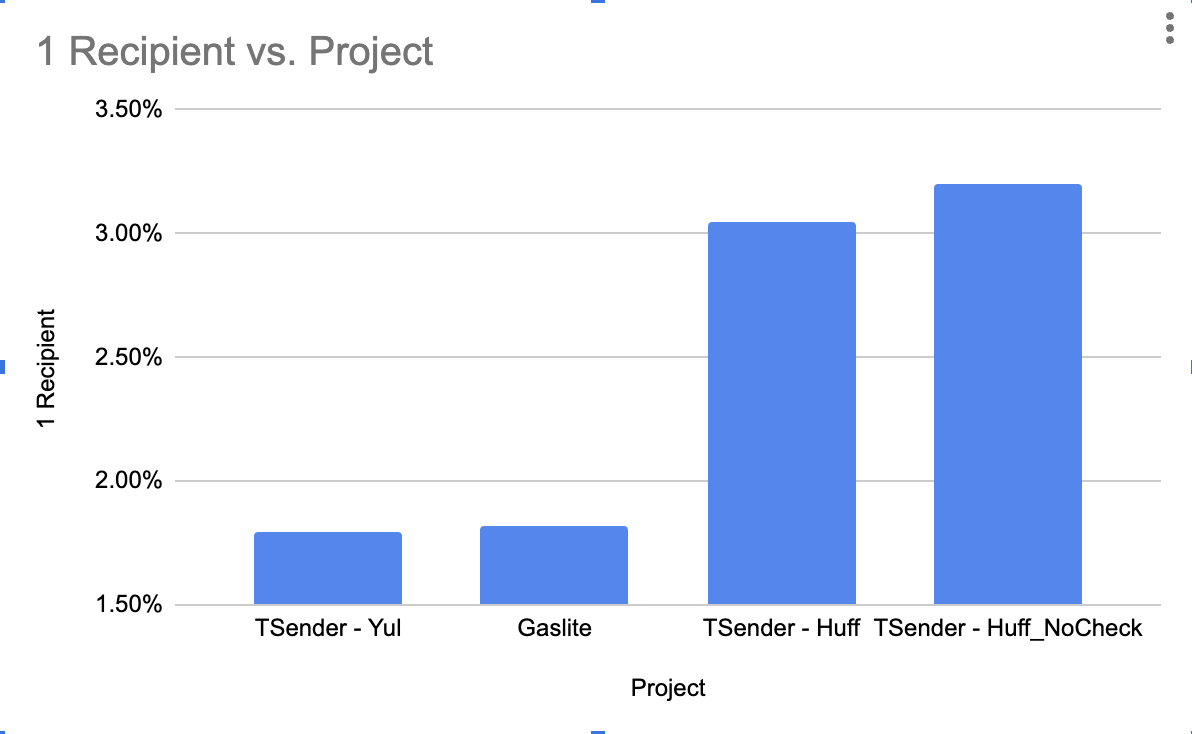
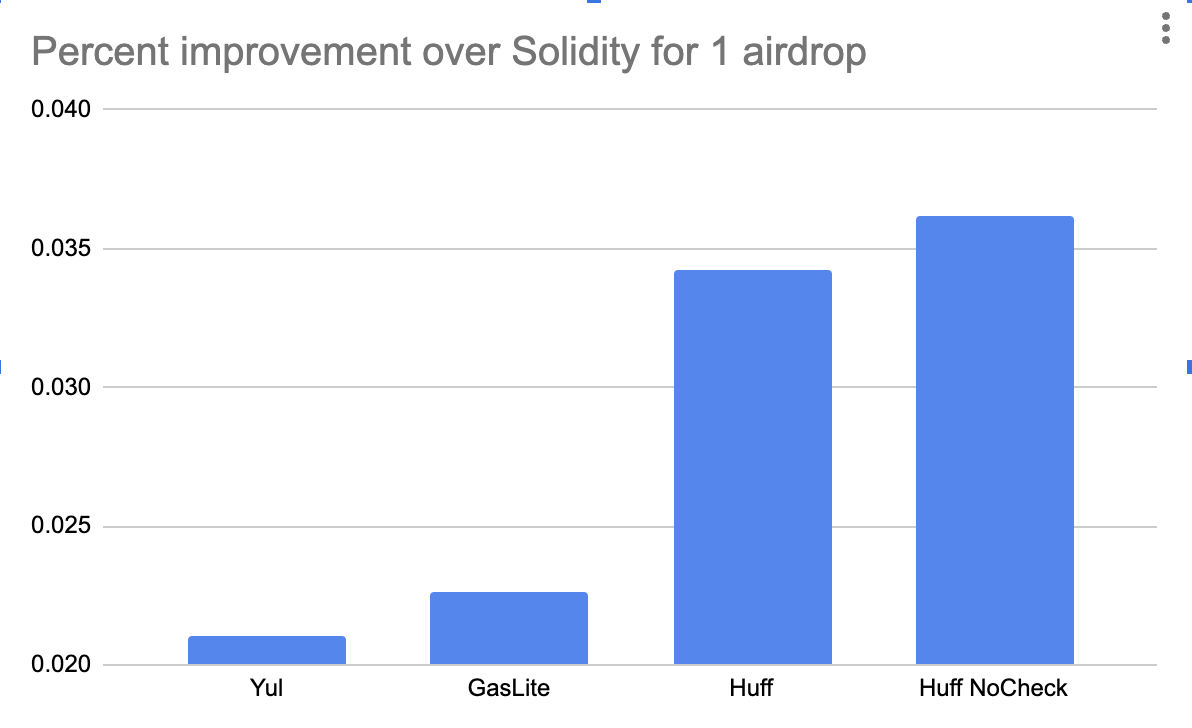
added gas changes for new code

diff --git a/README.md b/README.md
@@ -69,22 +69,21 @@ The work here was inspired by the [Gaslite team](https://github.com/PopPunkLLC/G
 > Note: Since our implementation adds more checks, the Huff code is slightly *less* gas efficient when working with additional recipients than the original gaslite codebase, but it is a safer smart contract. However, we did include a Huff contract the did not include those checks to show the power of using Huff to reduce gas costs.
 
 ### Efficiency Improvement vs Solidity					
-| Project                | 1 Recipient | 10 Recipients | 100 Recipients | 1000 Recipients | Mean Gas Improvement |
-| ---------------------- | ----------- | ------------- | -------------- | --------------- | -------------------- |
-| TSender - Yul          | 1.80%       | 2.53%         | 2.69%          | 2.71%           | 2.43%                |
-| Gaslite                | 1.82%       | 2.59%         | 2.76%          | 2.78%           | 2.49%                |
-| TSender - Huff         | 3.04%       | 2.79%         | 2.73%          | 2.73%           | 2.83%                |
-| TSender - Huff_NoCheck | 3.20%       | 2.86%         | 2.79%          | 2.79%           | 2.91%                |
-
+| # of recipients | Yul   | Gaslite | Huff  | Huff (No Checks) |
+| --------------- | ----- | ------- | ----- | ---------------- |
+| 1               | 2.10% | 2.26%   | 3.42% | 3.61%            |
+| 10              | 3.23% | 3.38%   | 3.51% | 3.65%            |
+| 100             | 3.48% | 3.62%   | 3.52% | 3.66%            |
+| 1000            | 3.51% | 3.66%   | 3.53% | 3.66%            |
 
 ### Actual Gas Costs
 
 |                      | Solidity | Yul      | Gaslite  | Huff     | Huff, no check |
 | -------------------- | -------- | -------- | -------- | -------- | -------------- |
-| 1 Recipient Drop     | 57176    | 56167    | 56156    | 55487    | 55402          |
-| 10 Recipient Drops   | 293772   | 286517   | 286353   | 285801   | 285590         |
-| 100 Recipient Drops  | 2659963  | 2590226  | 2588532  | 2589150  | 2587679        |
-| 1000 Recipient Drops | 26344485 | 25648190 | 25631196 | 25643514 | 25629443       |
+| 1 Recipient Drop     | 57377    | 56170    | 56080    | 55415    | 55303          |
+| 10 Recipient Drops   | 295287   | 285737   | 285296   | 284937   | 284510         |
+| 100 Recipient Drops  | 2674618  | 2581616  | 2577665  | 2580366  | 2576789        |
+| 1000 Recipient Drops | 26490540 | 25561280 | 25522229 | 25555530 | 25520453       |
 
 <p align="center">
 <img src="./img/gas-vs-1000.png" width="500" alt="gas-vs-1000.png">
